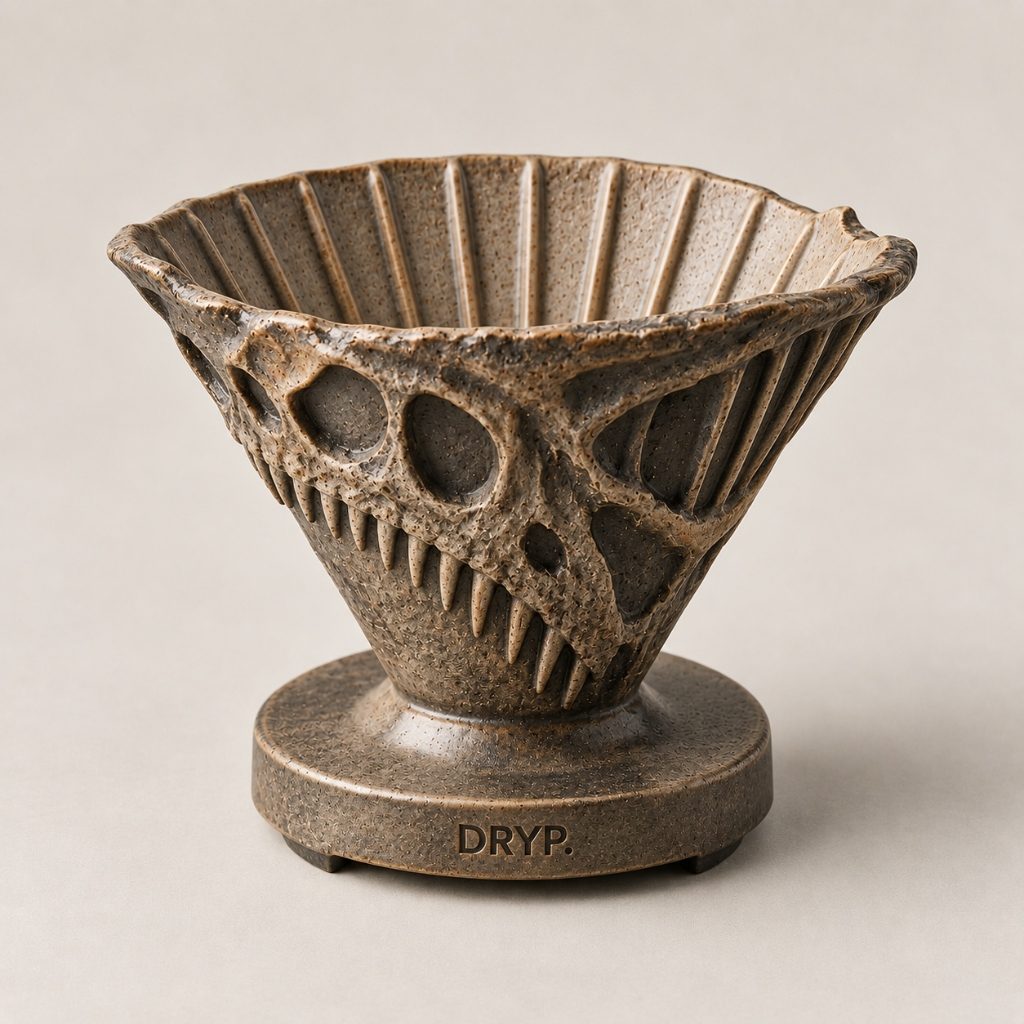
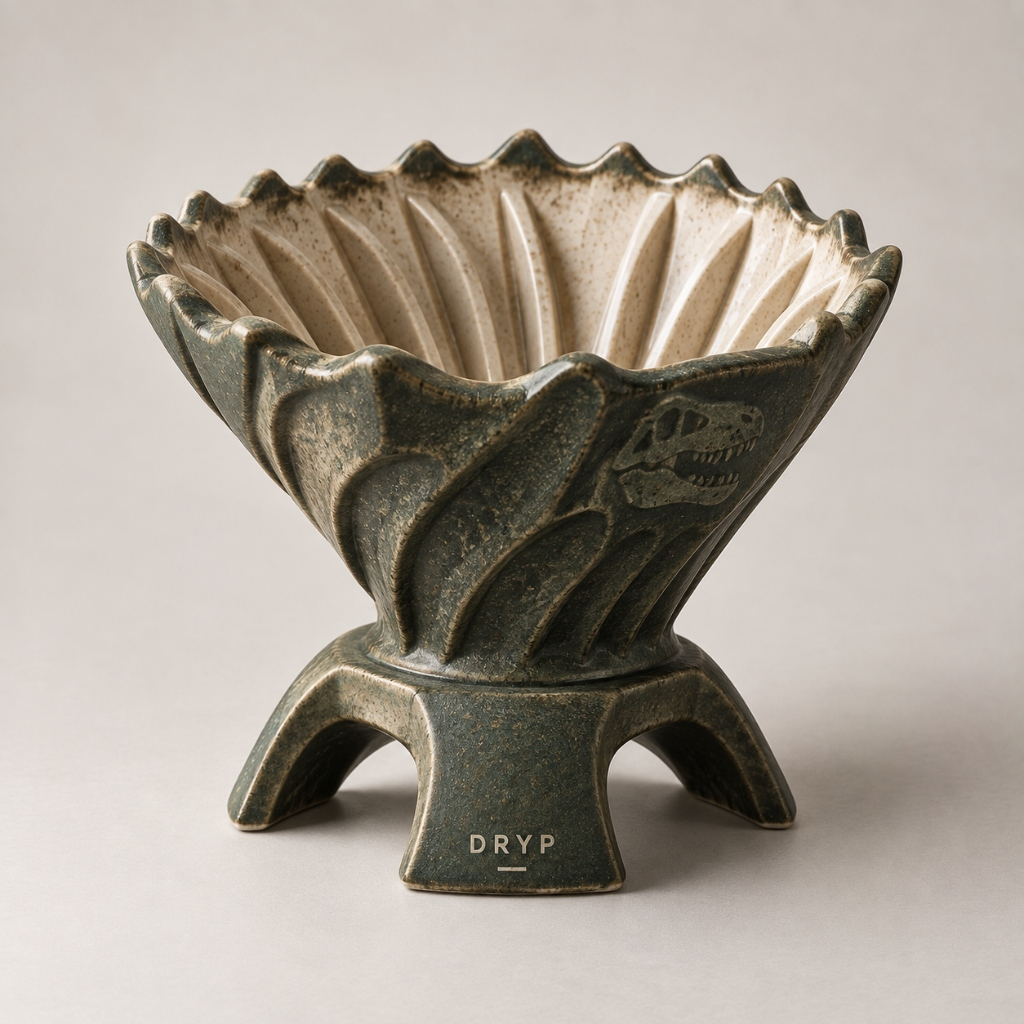
fix: replace Jurassic dinosaur dripper with moss-green claw tripod render

diff --git a/dripper-app/src/i18n/localizedData.ts b/dripper-app/src/i18n/localizedData.ts
@@ -1084,16 +1084,16 @@ export const LOCALIZED_PRODUCTS: Record<Language, Product[]> = {
       eyebrow: 'PALEO 03',
       name: 'Fossil Skull T-Rex',
       headline: 'Millions of years of apex evolution awakening with the first hot pour.',
-      story: 'Heavily textured sedimentary sandstone stoneware sculpted with an authentic theropod dinosaur skull in high relief, complete with hollow cranial orbits and serrated predatory teeth.',
-      objectDescription: 'Vertical drainage flutes line the interior chamber, ensuring consistent linear hydraulic flow through the coffee bed despite the wild prehistoric exterior relief.',
+      story: 'Sculpted in deep moss-green fossilized grog stoneware with an engraved theropod skull profile, scalloped vertebrae rim, and a sturdy tripod claw base stamped with the DRYP. seal.',
+      objectDescription: 'Cream-glazed interior chamber with vertical vertebral flutes delivers clean, regulated drainage, while the heavy volcanic grog stoneware ensures extraordinary thermal inertia.',
       price: 96,
       currency: 'USD',
       stockStatus: 'available',
       stockLabel: 'Available (042 / 100 numbered pieces)',
       stockCountRemaining: 42,
       paletteColors: [
-        { name: 'Sedimentary Fossil Sandstone', hex: '#8B7355' },
-        { name: 'Weathered Bone Ash', hex: '#D2B48C' }
+        { name: 'Fossil Moss Green', hex: '#3E4E43' },
+        { name: 'Bone Cream Glaze', hex: '#EAE5D9' }
       ],
       specs: {
         extractionStyle: 'Deep, rich extraction with bold caramelized body and low astringency',
@@ -2147,16 +2147,16 @@ export const LOCALIZED_PRODUCTS: Record<Language, Product[]> = {
       eyebrow: 'PALEO 03',
       name: 'Fossil Skull T-Rex',
       headline: 'Millones de años de evolución colosal despertando con la primera gota de agua hirviendo.',
-      story: 'Gres arenisca sedimentario de textura rústica profunda, esculpido con un cráneo fósil de terópodo en alto relieve, cuencas craneales huecas y dentadura carnívora aserrada.',
-      objectDescription: 'El interior incorpora estrías verticales de drenaje lineal calibrado, asegurando una extracción hidrodinámica balanceada que compensa la fuerza salvaje de la escultura exterior.',
+      story: 'Esculpido en gres chamotado verde musgo fosilizado con el perfil grabado de un cráneo de terópodo, borde festoneado en vértebras y una robusta base trípode en garra con el sello DRYP.',
+      objectDescription: 'El interior esmaltado en crema con nervaduras vertebrales verticales asegura un drenaje lineal equilibrado, mientras que el denso gres volcánico proporciona una inercia térmica excepcional.',
       price: 96,
       currency: 'USD',
       stockStatus: 'available',
       stockLabel: 'Disponible (042 / 100 piezas numeradas)',
       stockCountRemaining: 42,
       paletteColors: [
-        { name: 'Arenisca Fósil Sedimentaria', hex: '#8B7355' },
-        { name: 'Ceniza de Hueso Ancestral', hex: '#D2B48C' }
+        { name: 'Verde Musgo Fosilizado', hex: '#3E4E43' },
+        { name: 'Esmalte Hueso Crema', hex: '#EAE5D9' }
       ],
       specs: {
         extractionStyle: 'Extracción profunda y dulce, cuerpo caramelizado denso y acidez redonda',

diff --git a/dripper-app/src/data/pinterestPinsData.ts b/dripper-app/src/data/pinterestPinsData.ts
@@ -323,8 +323,8 @@ export const DRYP_DRIPS: DrypDrip[] = [
   {
     id: 'drip-fossil-skull',
     productId: 'fossil-skull-trex',
-    title: '07 / Fossil Skull',
-    subtitle: 'Gres arenisca esculpido con fósil de terópodo y estrías verticales. Flujo constante y profundo para cafés intensos.',
+    title: '07 / Fossil Skull T-Rex',
+    subtitle: 'Gres chamotado verde musgo fosilizado con cráneo de terópodo grabado y base trípode en garra. Borde festoneado con estrías de drenaje continuo.',
     category: 'Prehistoric',
     categoryLabel: 'Prehistoria',
     imageSrc: '/images/products/fossil-skull.jpg',
